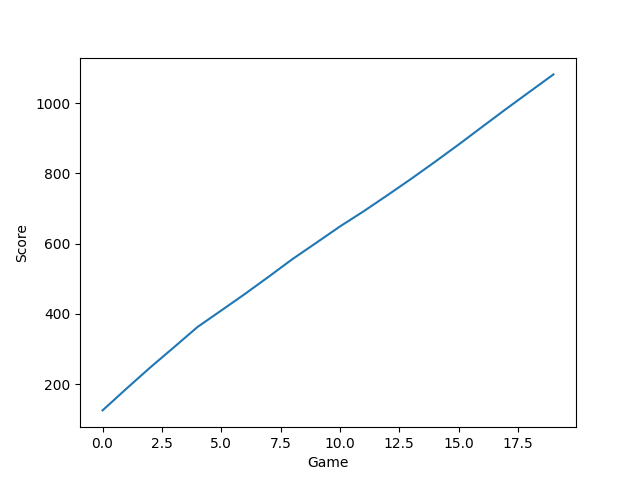
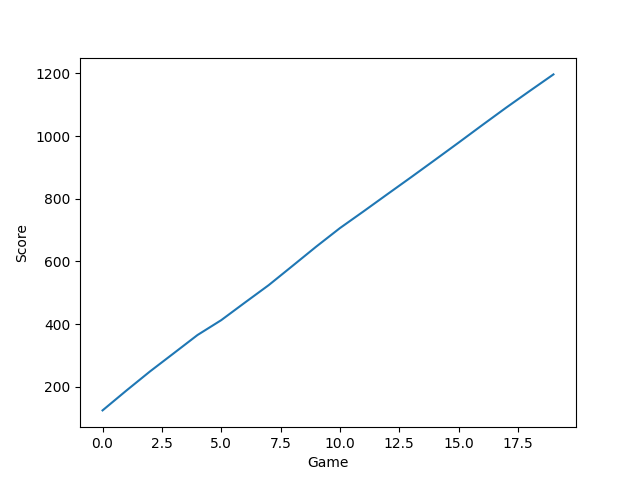
delay isn't accurate yet

diff --git a/main.py b/main.py
@@ -3,6 +3,7 @@ import random
 import numpy as np
 from matplotlib import pyplot as plt
 
+import util.util
 from environment.environment import TaskAllocationEnvironment
 from model.agent import Agent
 from dataset import data
@@ -20,7 +21,7 @@ def training():
     crit_value = 0
     score_history = []
     crit_history = []
-    for epoch in range(10):
+    for epoch in range(30):
         print('epoch', epoch)
         for i in range(len(train)):
             game = 0
@@ -32,10 +33,10 @@ def training():
 
             while not done and game < 100:
                 act, crit = agent.choose_action(obs)
-                print('action', act)
+                # print('action', act)
                 #todo maximizing q value does not maximize reward
 
-                new_state, reward, done, info = env.step(act)
+                new_state, reward, done, _, info = env.step(act)
                 # print(new_state)
                 agent.remember(obs, act, reward, new_state, int(done))
                 agent.learn()
@@ -44,7 +45,7 @@ def training():
                 obs = new_state
                 game += 1
 
-                print('\n')
+                # print('\n')
             score /= game
             crit_value /= game
 
@@ -64,9 +65,11 @@ def training():
 
     util.plotLearning(score_history, 'train', window=len(score_history))
     util.plotLearning(crit_history, 'crit', window=len(crit_history))
-
+convergence = []
+convergence_delay = []
 def eval():
     score = 0
+    average_delay = []
     score_history = []
     for i in range(len(test)):
         env.task = [sum(test[i])]
@@ -76,18 +79,23 @@ def eval():
         # print('action', act)
 
 
-        new_state, reward, done, info = env.step(act)
+        new_state, reward, done, delay, info = env.step(act)
         score += reward
+        average_delay.append(delay/len(train[i]))
         # print(new_state)
 
             # env.render()
         score_history.append(score)
     from util import util
-    util.plotLearning(score_history, 'test', window=len(score_history))
+    # util.plotLearning(score_history, 'test', window=len(score_history))
+    # util.plotconvergence(average_delay, score_history, 'covergence')
+    print(sum(average_delay)/len(average_delay))
     print(score)
+    convergence.append(score/sum(sum(test,[])))
+    convergence_delay.append(sum(average_delay)/len(average_delay))
     print(sum(sum(test,[])))
 
-
+from util import util
 if __name__ == '__main__':
     train, test = data.getDataList('dataset/100dataset.txt')
     training()

diff --git a/result/eval.py b/result/eval.py
@@ -4,8 +4,82 @@ import numpy as np
 import pandas as pd
 
 a = [1762.0, 1891.0, 2004.0,1680.0, 1948.0, 2051.0,1844.0,1793.0, 1876.0, 1976.0, 1849.0, 1976.0,1855.0, 1907.0, 1722.0, 1827.0, 1833.0, 1793.0,1779.0,1675.0]
-b = list(np.array(a)/2367)
-avg = sum(a)/len(a)
+c = [
+1715.0,2028.0,2032.0,
+
+
+1527.0,
+
+
+1871.0,
+
+
+1924.0,
+
+2105.0,
+
+
+1929.0,
+
+
+1721.0,
+
+
+2038.0,
+
+
+1649.0,
+
+
+2029.0,
+
+
+2033.0,
+
+
+49.0,
+
+
+1878.0,
+
+
+2017.0,
+
+
+2222.0,
+
+
+1385.0,
+
+
+1817.0,
+
+
+1883.0,
+]
+
+d = [2102,
+1867,
+1868,
+1880,
+1869,
+1804,
+1952,
+1864,
+2024,
+1870,
+1889,
+1852,
+2147,
+2054,
+1836,
+2100,
+1861,
+1796,
+2118,
+2146]
+b = list(np.array(d)/2367)
+avg = sum(d)/len(d)
 print(avg)
 print(avg/2367)
 print(sum(i >= 0.70 and i < 0.80 for i in b))
@@ -24,7 +98,8 @@ fig, ax = plt.subplots(figsize=(10,10))
         .plot.bar(ax=ax)
 )
 ax.set_ylabel('frequency')
-ax.set_xlabel('percentage of instruction completed')
+ax.set_xlabel('percentage of tasks completed')
 plt.title('task allocation using DDPG')
-plt.show()
+plt.savefig('eval')
+
 

diff --git a/environment/environment.py b/environment/environment.py
@@ -29,15 +29,15 @@ class TaskAllocationEnvironment(Env):
         # sort_index2 = np.argsort(action)
 
         allocation = np.array(self.allocateTask(sorted(self.taskList), action))
-
+        delay = float(np.sum(allocation / self.cpuPower))
         self.state = allocation / self.cpuPower < self.ddl
         reward = self.state * allocation
 
         done = all(d == 1 for d in self.state)
-        print('allocation', allocation)
-        print('reward ', reward)
-        print('state', self.state)
-        return self.task + list(self.state), float(np.sum(reward)), done, info
+        # print('allocation', allocation)
+        # print('reward ', reward)
+        # print('state', self.state)
+        return self.task + list(self.state), float(np.sum(reward)), done, delay, info
 
     def observe(self):
         return self.task + list(self.state)

diff --git a/util/util.py b/util/util.py
@@ -13,3 +13,16 @@ def plotLearning(scores, filename, x=None, window=5):
     plt.xlabel('Game')
     plt.plot(x, running_avg)
     plt.savefig(filename)
+
+
+def plotconvergence(delay, score, filename):
+    plt.clf()
+    fig, axs = plt.subplots(2, 1)
+
+    axs[0].plot(range(len(delay)), delay)
+
+    # plt.subplots(122)
+    axs[1].plot(range(len(score)), score)
+
+
+    plt.savefig(filename)

diff --git a/model/agent.py b/model/agent.py
@@ -66,7 +66,7 @@ class Agent(object):
         self.actor.train()
         self.critic.eval()
         critic_value = float(self.critic.forward(mu_prime,observation))
-        print('critic value', critic_value)
+        # print('critic value', critic_value)
         self.critic.train()
         return mu_prime.cpu().detach().numpy(), critic_value
 

diff --git a/model/critic.py b/model/critic.py
@@ -50,7 +50,6 @@ class CriticNetwork(nn.Module):
             temp = state[:, 1:]
             state_value = self.state_value(temp)
         x = self.fc2(T.add(x, state_value))
-
         return x
 
     def save_checkpoint(self):
